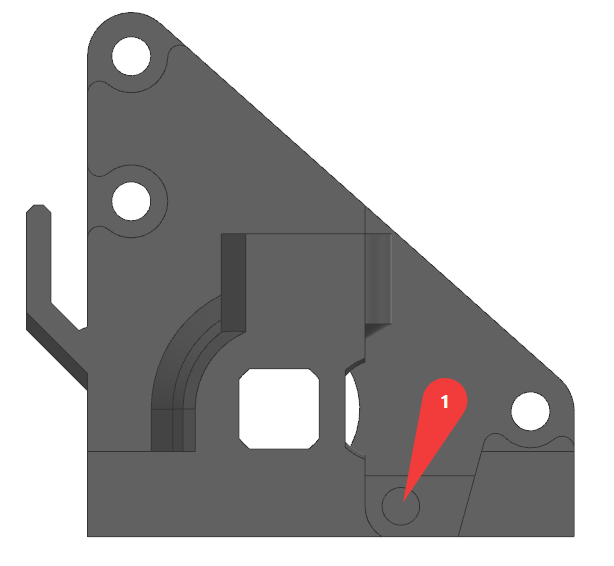
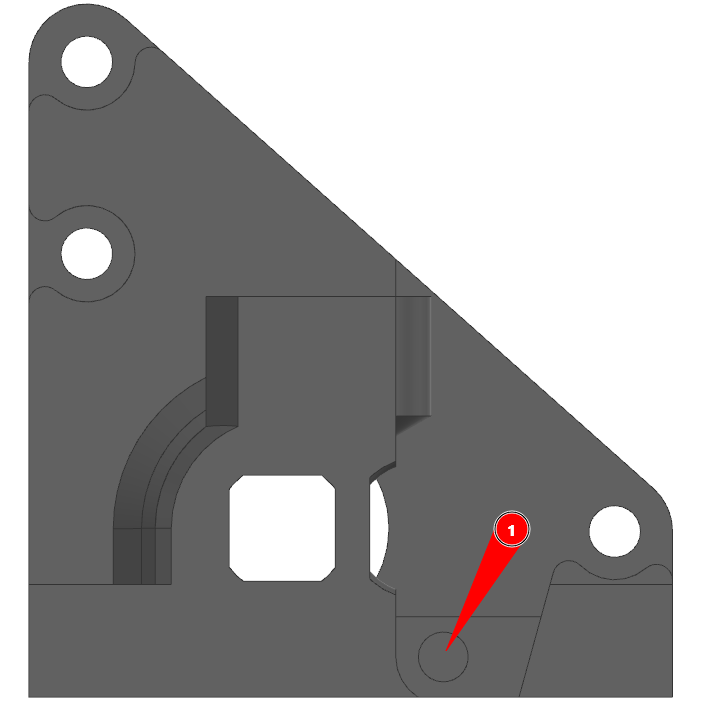
vostok: add V9-11411 section and second V9-1143 image to prepare guide
- Add grid-card section for V9-11411 sacrificial layers (square processed image)
- Add second image v9-1143-2 to the V9-1143 grid

Images processed with strip_white.py.

diff --git a/docs/vostok/manual/prepare.md b/docs/vostok/manual/prepare.md
@@ -88,6 +88,14 @@ description: Гайд по подготовке деталей к сборке 3
 
 !!! note "Проще всего удалить мембрану сверлом подходящего диаметра или надфилем круглого сечения. Но в большинстве мест может справиться и обычный канцелярский нож"
 
+### V9-11411
+
+<div class="grid cards cols-2" markdown>
+
+- ![](./pics/prepare/v9-11411.png)
+
+</div>
+
 ### V9-1142
 
 <div class="grid cards cols-2" markdown>
@@ -101,6 +109,7 @@ description: Гайд по подготовке деталей к сборке 3
 <div class="grid cards cols-2" markdown>
 
 - ![](./pics/prepare/v9-1143.png)
+- ![](./pics/prepare/v9-1143-2.png)
 
 </div>
 
@@ -233,4 +242,3 @@ description: Гайд по подготовке деталей к сборке 3
 - ![](./pics/prepare/inserts_v9-625.png)
 
 </div>
-
